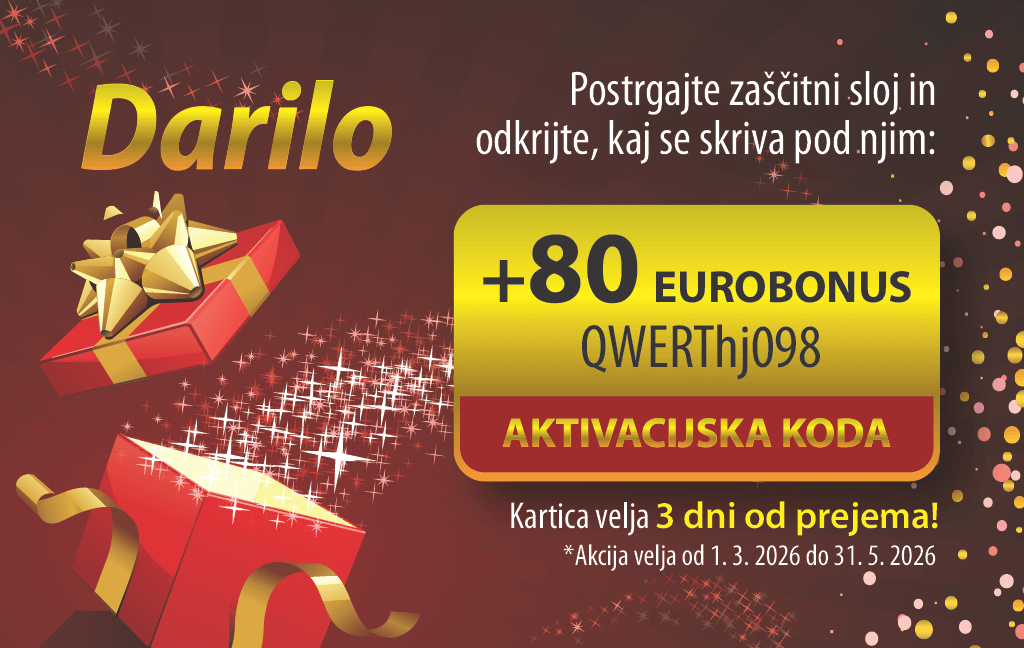
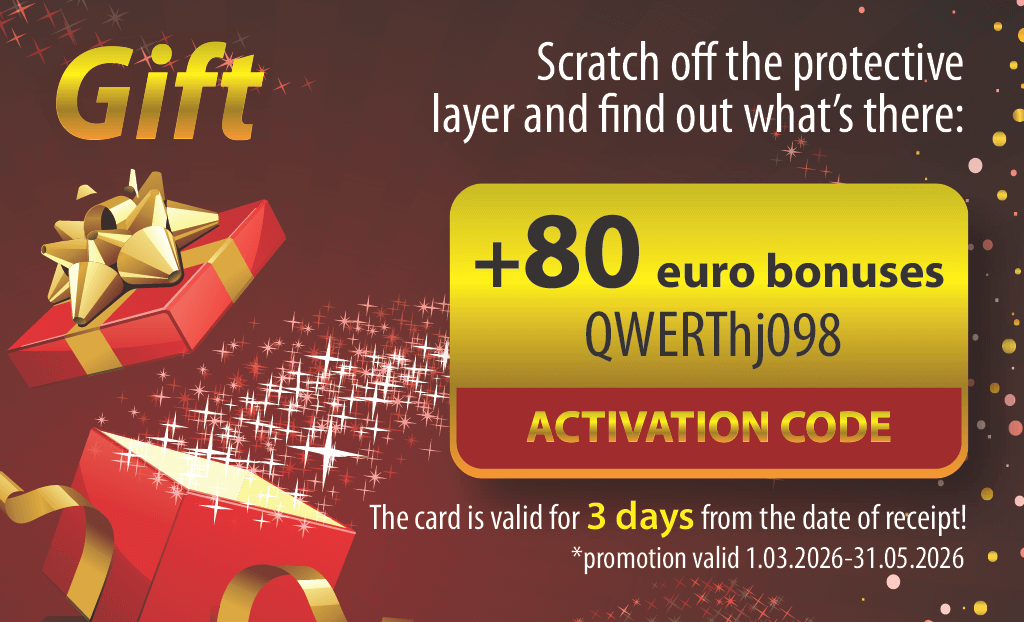
fix cupon img en, change bg, thankYou text, img complex for order form
# Conflicts:
#	build/css/style.min.css
#	build/hr/index.html
#	build/hr/subscribe.html
#	build/index.html
#	build/sl/index.html
#	build/sl/subscribe.html
#	build/subscribe.html

diff --git a/src/styles/components/intro.scss b/src/styles/components/intro.scss
@@ -63,12 +63,16 @@ body, button {
   margin: 0 auto 30px;
 
 
-  @include rm(640){
-    max-width: 480px;
+  @include rm(640) {
+    max-width: 600px;
   }
 
-  @include rm(768){
-    max-width: 715px;
+  //@include rm(768) {
+  //  max-width: 715px;
+  //}
+
+  @include rm(1024) {
+    max-width: 975px;
   }
 
 }
@@ -88,15 +92,26 @@ body, button {
   -webkit-background-size: 45px;
   background-size: 45px;
 
-  @include rm(640){
-    padding-right: 0;
+  @include rm(640) {
+    padding-right: 10px;
     padding-top: 10px;
-    padding-bottom: 55px;
+    //padding-bottom: 55px;
+    padding-right: 95px;
     width: calc(50% - 8px);
   }
 
   @include rm(768) {
+    //padding: 20px;
+    //padding-right: 100px;
+    //width: calc(33% - 10px);
+  }
+
+  @include rm(1024) {
+    padding: 20px;
+    padding-right: 100px;
+    //padding-bottom: 105px;
     width: calc(33% - 10px);
+    //justify-content: center;
   }
 }
 
@@ -117,8 +132,14 @@ body, button {
   -webkit-background-size: 55px;
   background-size: 55px;
 
-  @include rm(640) {
-    background-position:  center bottom 10px;
+  @include rm(768) {
+
+    //background-position: center bottom 10px;
+  }
+  @include rm(1024) {
+    padding-right: 100px;
+    //background-position: center bottom 30px;
+    background-size: 70px;
   }
 }
 
@@ -126,8 +147,16 @@ body, button {
   background-image: url(../../img/icon-click.svg);
   background-position: calc(100% - 20px) center;
   background-repeat: no-repeat;
-    @include rm(640) {
-    background-position:  center bottom 10px;
+  @include rm(640) {
+    padding-right: 130px;
+    //background-position: center bottom 10px;
+  }
+
+  @include rm(1024) {
+    padding-right: 140px;
+    //background-position: center bottom 20px;
+    background-size: 55px;
+    //width: 220px;
   }
 }
 
@@ -135,8 +164,17 @@ body, button {
   background-image: url(../../img/icon-gift.svg);
   background-position: calc(100% - 20px) center;
   background-repeat: no-repeat;
-    @include rm(640) {
-    background-position:  center bottom 10px;
+  @include rm(640) {
+    padding-right: 110px;
+
+    //background-position: center bottom 10px;
+  }
+
+  @include rm(1024) {
+    padding-right: 130px;
+    //width: 320px;
+    //background-position: center bottom 20px;
+    background-size: 55px;
   }
 }
 
@@ -179,7 +217,12 @@ body, button {
   color: black;
 
   @include rm(640) {
+    font-size: 17px;
     width: calc(50% - 12px);
+  }
+
+  @include rm(768) {
+    font-size: 19px;
   }
 }
 
